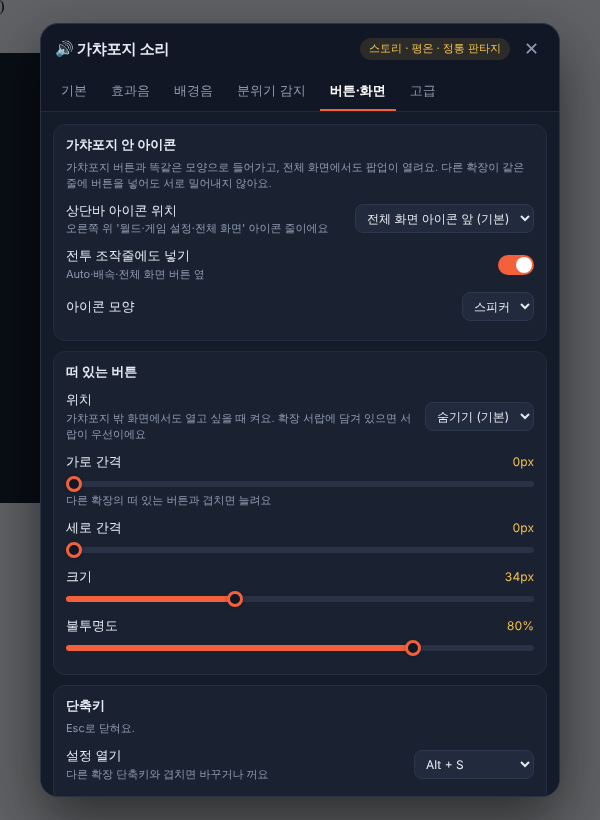
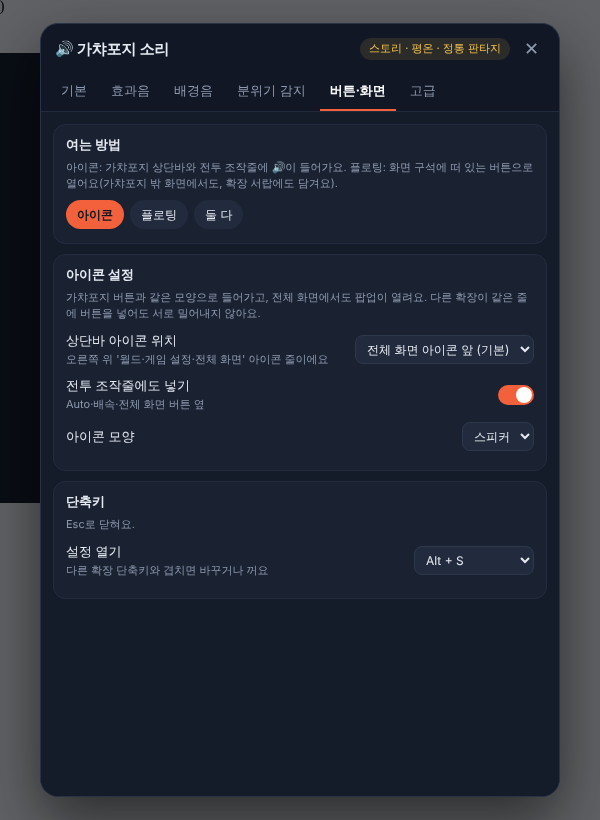
5.1.0: 여는 방법(아이콘·플로팅·둘 다) 선택
- 상단바 '넣지 않기'와 떠 있는 버튼 '숨기기'를 여는 방법 선택 하나로 정리
- 고른 방법의 설정만 버튼·화면 탭에 표시
- 이전 설정은 자동으로 옮김

Claude-Session: https://claude.ai/code/session_01C8bT5cMenpjk9aSSWKRbmV

diff --git a/extension.js b/extension.js
@@ -86,8 +86,9 @@
     keywords: {},
     genreKeywords: {},
     // 버튼·화면
-    launcherPos: "hidden", launcherSize: 34, launcherOpacity: 0.8,
-    iconTopbar: "beforeFs",   // 상단바 아이콘 위치: beforeFs | beforeSettings | end | none
+    openMode: "icon",         // 여는 방법: icon(가챠포지 안 아이콘) | floating(떠 있는 버튼) | both
+    launcherPos: "br", launcherSize: 34, launcherOpacity: 0.8,
+    iconTopbar: "beforeFs",   // 상단바 아이콘 위치: beforeFs | beforeSettings | end
     iconBattle: true,         // 전투 조작줄에도 아이콘
     iconStyle: "speaker",     // speaker | note | gear | wave
     launcherOffsetX: 0, launcherOffsetY: 0,
@@ -106,6 +107,15 @@
     // 5.0: 떠 있는 버튼 대신 가챠포지 상단바 아이콘이 기본
     if (!cfg.migratedV5) { cfg.launcherPos = "hidden"; cfg.migratedV5 = true; }
     if (cfg.inGameIcon === false) { cfg.iconTopbar = "none"; cfg.iconBattle = false; } delete cfg.inGameIcon;
+    // 5.1: '넣지 않기'·'숨기기'를 여는 방법(아이콘/플로팅) 하나로 정리
+    if (!cfg.migratedV51) {
+      cfg.migratedV51 = true;
+      const iconsOff = cfg.iconTopbar === "none" && cfg.iconBattle === false;
+      const floatOn = cfg.launcherPos && cfg.launcherPos !== "hidden";
+      cfg.openMode = iconsOff ? "floating" : floatOn ? "both" : "icon";
+    }
+    if (cfg.iconTopbar === "none") cfg.iconTopbar = "beforeFs";
+    if (!cfg.launcherPos || cfg.launcherPos === "hidden") cfg.launcherPos = "br";
     if (cfg.hotkey === true) cfg.hotkey = "alt+s"; else if (cfg.hotkey === false) cfg.hotkey = "off";
   } catch {}
   let saveTimer = 0;
@@ -810,15 +820,14 @@
   }
   function ensureGameButtons(force) {
     if (!root) return;
-    const sig = [cfg.iconTopbar, cfg.iconBattle, cfg.iconStyle, cfg.hotkey].join("|");
+    const sig = [cfg.openMode, cfg.iconTopbar, cfg.iconBattle, cfg.iconStyle, cfg.hotkey].join("|");
     if (force || sig !== iconSig) { root.querySelectorAll("button[data-gfs]").forEach((b) => b.remove()); iconSig = sig; }
-    if (cfg.iconTopbar === "none" && !cfg.iconBattle) return;
+    if (cfg.openMode === "floating") return;
     if (gameSheet && !root.adoptedStyleSheets.includes(gameSheet)) root.adoptedStyleSheets = [...root.adoptedStyleSheets, gameSheet];
     for (const fsb of root.querySelectorAll(".gf-fs-bar")) {
       const box = fsb.parentElement; if (!box) continue;
       const native = fsb.classList.contains("icon-button");
       if (native) { // 상단바
-        if (cfg.iconTopbar === "none") continue;
         const settingsBtn = [...box.children].find((c) => c.getAttribute && /settings/i.test(c.getAttribute("aria-label") || ""));
         if (cfg.iconTopbar === "end") placeIn(box, "top", true, null, true);
         else placeIn(box, "top", true, cfg.iconTopbar === "beforeSettings" && settingsBtn ? settingsBtn : fsb, false);
@@ -1297,7 +1306,7 @@
       left: pos[1] === "l" ? `calc(env(safe-area-inset-left) + ${gx})` : "auto",
     });
     // 서랍이 숨긴 경우(display:none !important)는 건드리지 않음
-    if (launcher.style.getPropertyPriority("display") !== "important") launcher.style.display = pos === "hidden" ? "none" : "grid";
+    if (launcher.style.getPropertyPriority("display") !== "important") launcher.style.display = cfg.openMode === "icon" ? "none" : "grid";
   }
   placeLauncher();
 
@@ -1400,15 +1409,17 @@
       card("장르 단어 추가", Object.keys(GENRE_LABEL).map((g) => textarea("genreKeywords." + g, GENRE_LABEL[g], "예: 세계관 고유 명사")).join(""), "테마 '자동'일 때 장르를 짐작하는 데 써요.") +
       card("지금 감지 상태", `<div class="meter" data-meter></div><p class="hint" data-lastline></p>`),
     view:
-      card("가챠포지 안 아이콘",
-        select("iconTopbar", "상단바 아이콘 위치", [["beforeFs", "전체 화면 아이콘 앞 (기본)"], ["beforeSettings", "게임 설정 아이콘 앞"], ["end", "맨 끝"], ["none", "넣지 않기"]], "오른쪽 위 '월드·게임 설정·전체 화면' 아이콘 줄이에요") +
+      card("여는 방법", chips("openMode", [["icon", "아이콘"], ["floating", "플로팅"], ["both", "둘 다"]]),
+        "아이콘: 가챠포지 상단바와 전투 조작줄에 🔊이 들어가요. 플로팅: 화면 구석에 떠 있는 버튼으로 열어요(가챠포지 밖 화면에서도, 확장 서랍에도 담겨요).") +
+      `<div data-show="icon">` + card("아이콘 설정",
+        select("iconTopbar", "상단바 아이콘 위치", [["beforeFs", "전체 화면 아이콘 앞 (기본)"], ["beforeSettings", "게임 설정 아이콘 앞"], ["end", "맨 끝"]], "오른쪽 위 '월드·게임 설정·전체 화면' 아이콘 줄이에요") +
         toggle("iconBattle", "전투 조작줄에도 넣기", "Auto·배속·전체 화면 버튼 옆") +
         select("iconStyle", "아이콘 모양", [["speaker", "스피커"], ["note", "음표"], ["wave", "음파"], ["gear", "톱니"]]),
-        "가챠포지 버튼과 똑같은 모양으로 들어가고, 전체 화면에서도 팝업이 열려요. 다른 확장이 같은 줄에 버튼을 넣어도 서로 밀어내지 않아요.") +
-      card("떠 있는 버튼",
-        select("launcherPos", "위치", [["hidden", "숨기기 (기본)"], ["br", "오른쪽 아래"], ["bl", "왼쪽 아래"], ["tr", "오른쪽 위"], ["tl", "왼쪽 위"]], "가챠포지 밖 화면에서도 열고 싶을 때 켜요. 확장 서랍에 담겨 있으면 서랍이 우선이에요") +
+        "가챠포지 버튼과 같은 모양으로 들어가고, 전체 화면에서도 팝업이 열려요. 다른 확장이 같은 줄에 버튼을 넣어도 서로 밀어내지 않아요.") + `</div>` +
+      `<div data-show="floating">` + card("플로팅 버튼 설정",
+        select("launcherPos", "위치", [["br", "오른쪽 아래"], ["bl", "왼쪽 아래"], ["tr", "오른쪽 위"], ["tl", "왼쪽 위"]], "확장 서랍에 담겨 있으면 서랍이 우선이에요") +
         range("launcherOffsetX", "가로 간격", 0, 240, 4, "px", "다른 확장의 떠 있는 버튼과 겹치면 늘려요") + range("launcherOffsetY", "세로 간격", 0, 240, 4, "px") +
-        range("launcherSize", "크기", 24, 52, 2, "px") + range("launcherOpacity", "불투명도", 0.2, 1, 0.05)) +
+        range("launcherSize", "크기", 24, 52, 2, "px") + range("launcherOpacity", "불투명도", 0.2, 1, 0.05)) + `</div>` +
       card("단축키", select("hotkey", "설정 열기", [["alt+s", "Alt + S"], ["alt+m", "Alt + M"], ["ctrl+shift+s", "Ctrl + Shift + S"], ["off", "쓰지 않기"]], "다른 확장 단축키와 겹치면 바꾸거나 꺼요"), "Esc로 닫혀요."),
     adv:
       card("성능", toggle("lowPower", "저사양 모드", "울림 끄기, 음 밀도 낮추기, 화음 단순화") + range("sleepSec", "조용할 때 오디오 엔진 쉬기", 3, 60, 1, "s", "배경음이 꺼져 있을 때만 적용돼요")) +
@@ -1431,7 +1442,7 @@
       nav button { flex: 0 0 auto; background: none; color: var(--muted); border: 0; border-bottom: 2px solid transparent; padding: 9px 10px; cursor: pointer; font: inherit; }
       nav button[aria-selected="true"] { color: var(--fg-strong); border-bottom-color: var(--accent); font-weight: 600; }
       .body { overflow: auto; padding: 12px; background: var(--body); flex: 1; -webkit-overflow-scrolling: touch; overscroll-behavior: contain; }
-      section[hidden] { display: none; }
+      section[hidden], [data-show][hidden] { display: none; }
       .card2 { background: var(--card); border: 1px solid var(--card-bd); border-radius: 12px; padding: 10px 12px; margin-bottom: 10px; }
       .card2 h4 { margin: 0 0 6px; font-size: 13px; }
       .card2 h4 small { color: var(--muted); font-weight: 400; }
@@ -1546,6 +1557,7 @@
     });
     $$("[data-cfg][data-type='bool']").forEach((el) => { const v = getCfg(el.dataset.cfg); el.checked = v === true || (v === "" ? false : v !== false); });
     $$("[data-chip]").forEach((b) => b.setAttribute("aria-pressed", String(String(getCfg(b.dataset.chip)) === b.dataset.val)));
+    $$("[data-show]").forEach((el) => { el.hidden = !(cfg.openMode === "both" || cfg.openMode === el.dataset.show); });
     const gs = $("[data-guess]"); if (gs) gs.textContent = cfg.theme === "auto" ? "· 지금 " + THEME_LABEL[guessedTheme] + "로 판단" : "";
     $$(".snd").forEach((row) => {
       const k = row.dataset.snd, sc = sCfg(k);
@@ -1650,7 +1662,8 @@
       else syncBgm();
     }
     if (top.startsWith("launcher")) placeLauncher();
-    if (/^icon|^hotkey$|^sfxOn$|^bgmOn$/.test(top)) ensureGameButtons();
+    if (/^icon|^hotkey$|^sfxOn$|^bgmOn$|^openMode$/.test(top)) ensureGameButtons();
+    if (top === "openMode") { placeLauncher(); syncUi(); }
     if (top === "theme") { detectGenre(true); setSfxFx(activeTheme()); syncUi(); }
     if (top === "keywords" || top === "genreKeywords") wordCache.clear();
   }

diff --git a/README.md b/README.md
@@ -36,12 +36,15 @@
 
 ## 쓰는 법
 
-설정 팝업은 이렇게 엽니다.
+**버튼·화면 탭 → 여는 방법**에서 고릅니다.
 
-- **가챠포지 상단바의 🔊 아이콘** (오른쪽 위 '게임 설정·전체 화면' 아이콘 옆) — 기본
-- 전투 화면의 조작줄(Auto·배속 옆) 🔊 아이콘
-- 단축키 **Alt + S** (버튼·화면 탭에서 Alt+M, Ctrl+Shift+S로 바꾸거나 끌 수 있음)
-- 원하면 떠 있는 버튼도 켤 수 있고, 확장 서랍을 쓰면 서랍에 담깁니다.
+| 여는 방법 | 어디에 생기나 |
+|---|---|
+| **아이콘** (기본) | 가챠포지 상단바 오른쪽 위 '게임 설정·전체 화면' 아이콘 옆, 전투 조작줄(Auto·배속 옆)에 🔊 |
+| **플로팅** | 화면 구석에 떠 있는 버튼. 가챠포지 밖 화면에서도 열 수 있고, 확장 서랍을 쓰면 서랍에 담깁니다 |
+| **둘 다** | 아이콘과 플로팅 버튼을 같이 씁니다 |
+
+단축키 **Alt + S**로도 열 수 있습니다(Alt+M, Ctrl+Shift+S로 바꾸거나 끌 수 있음).
 
 팝업은 브라우저의 최상위 레이어에 떠서 **가챠포지 전체 화면에서도 보입니다.** Esc로 닫힙니다.
 
@@ -57,7 +60,7 @@
 | 효과음 | 울림, 타자음 간격, 속성별 타격음, 보상 연속 재생 개수, 그룹째 끄기, 소리마다 볼륨·음높이·내 파일 |
 | 배경음 | 빠르기, 멜로디 악기, 배경 화음 음색, 드럼, 음 밀도, 곡 전환 페이드, 상황별 자동 생성·내 파일·끄기 |
 | 분위기 감지 | 감도, 최소 유지 시간, 쓸 분위기, 분위기별 단어 추가, 장르 판단 단어 추가, 실시간 감지 점수 |
-| 버튼·화면 | 상단바 아이콘 위치(전체 화면 앞·게임 설정 앞·맨 끝·넣지 않기), 전투 조작줄 아이콘, 아이콘 모양(스피커·음표·음파·톱니), 떠 있는 버튼 위치·간격·크기·불투명도, 단축키 |
+| 버튼·화면 | 여는 방법(아이콘·플로팅·둘 다), 상단바 아이콘 위치(전체 화면 앞·게임 설정 앞·맨 끝), 전투 조작줄 아이콘, 아이콘 모양(스피커·음표·음파·톱니), 플로팅 버튼 위치·간격·크기·불투명도, 단축키 |
 | 고급 | 저사양 모드, 오디오 엔진 쉬는 시간, 설정 내보내기·가져오기, 초기화 |
 
 ## 어떤 순간에 소리가 나나
@@ -113,6 +116,7 @@
 
 ## 변경 기록
 
+- **5.1.0** 여는 방법을 아이콘·플로팅·둘 다 중에서 선택. 고른 방법의 설정만 보이게 정리
 - **5.0.0** 가챠포지 상단바·전투 조작줄 🔊 아이콘(위치·모양 선택), 전체 화면에서도 보이는 팝업, 단축키 선택, 떠 있는 버튼 간격 조절, 다른 확장과 충돌 방지, 가챠포지가 안 보일 때 화면 감시 멈춤(최적화)
 - **4.2.0** 장르 테마별 사운드 키트(모든 효과음의 테마 색 + 큰 연출음 테마별 작곡), 테마별 화성·리드 멜로디·양념 소리
 - **4.1.0** 설정 팝업·버튼·슬라이더·스크롤바가 장르 테마 색을 따라감
